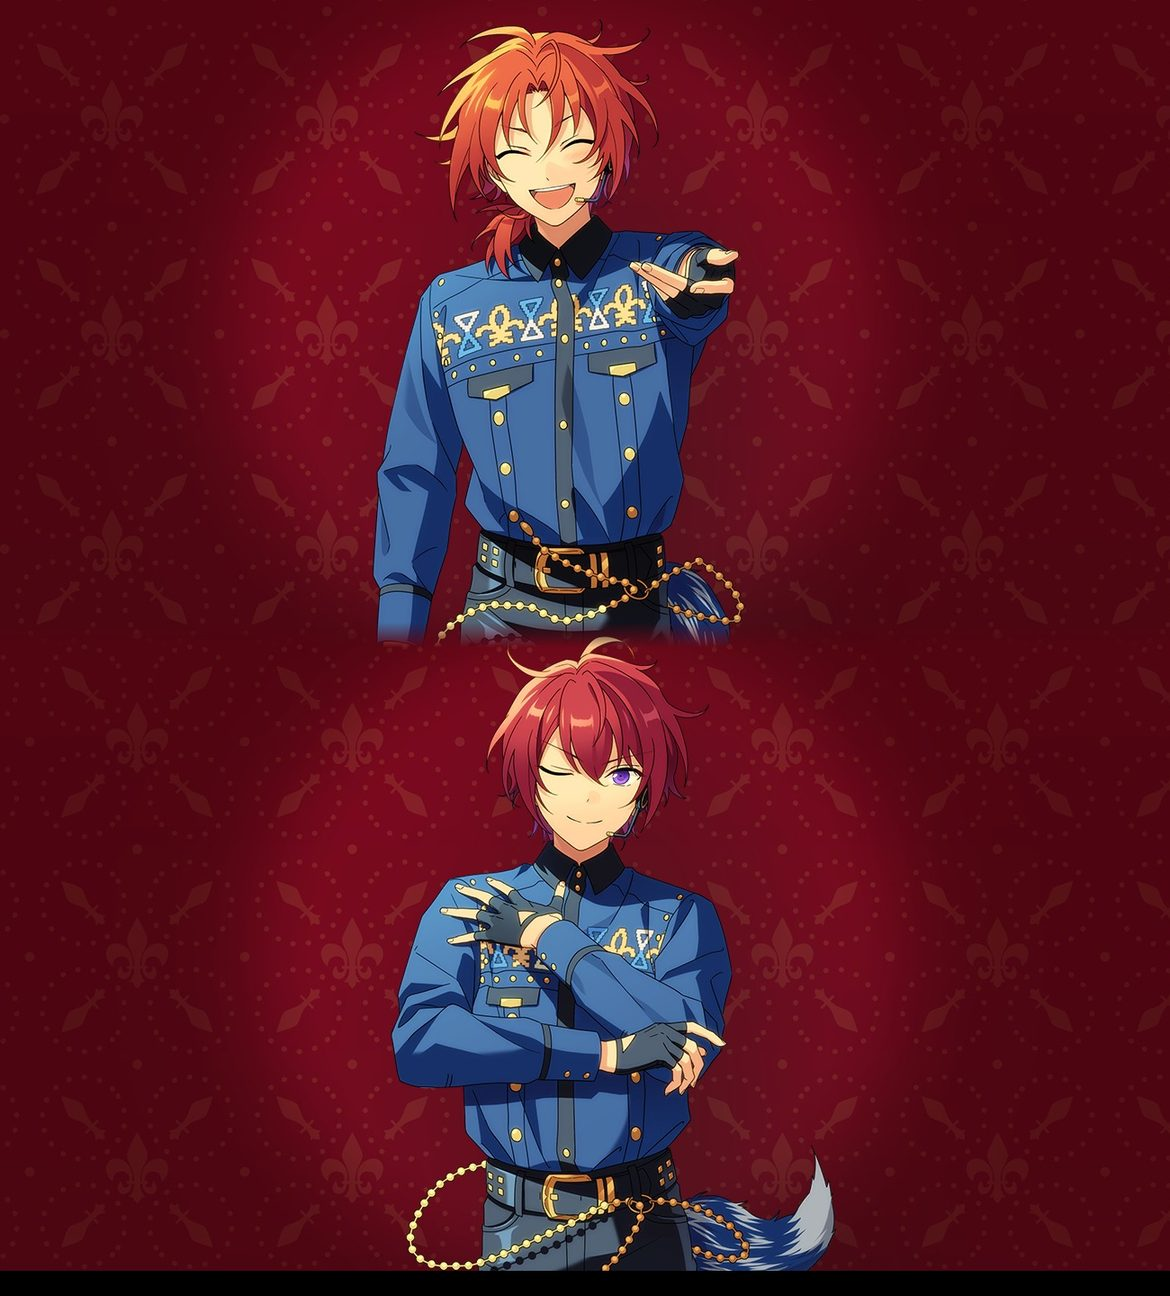
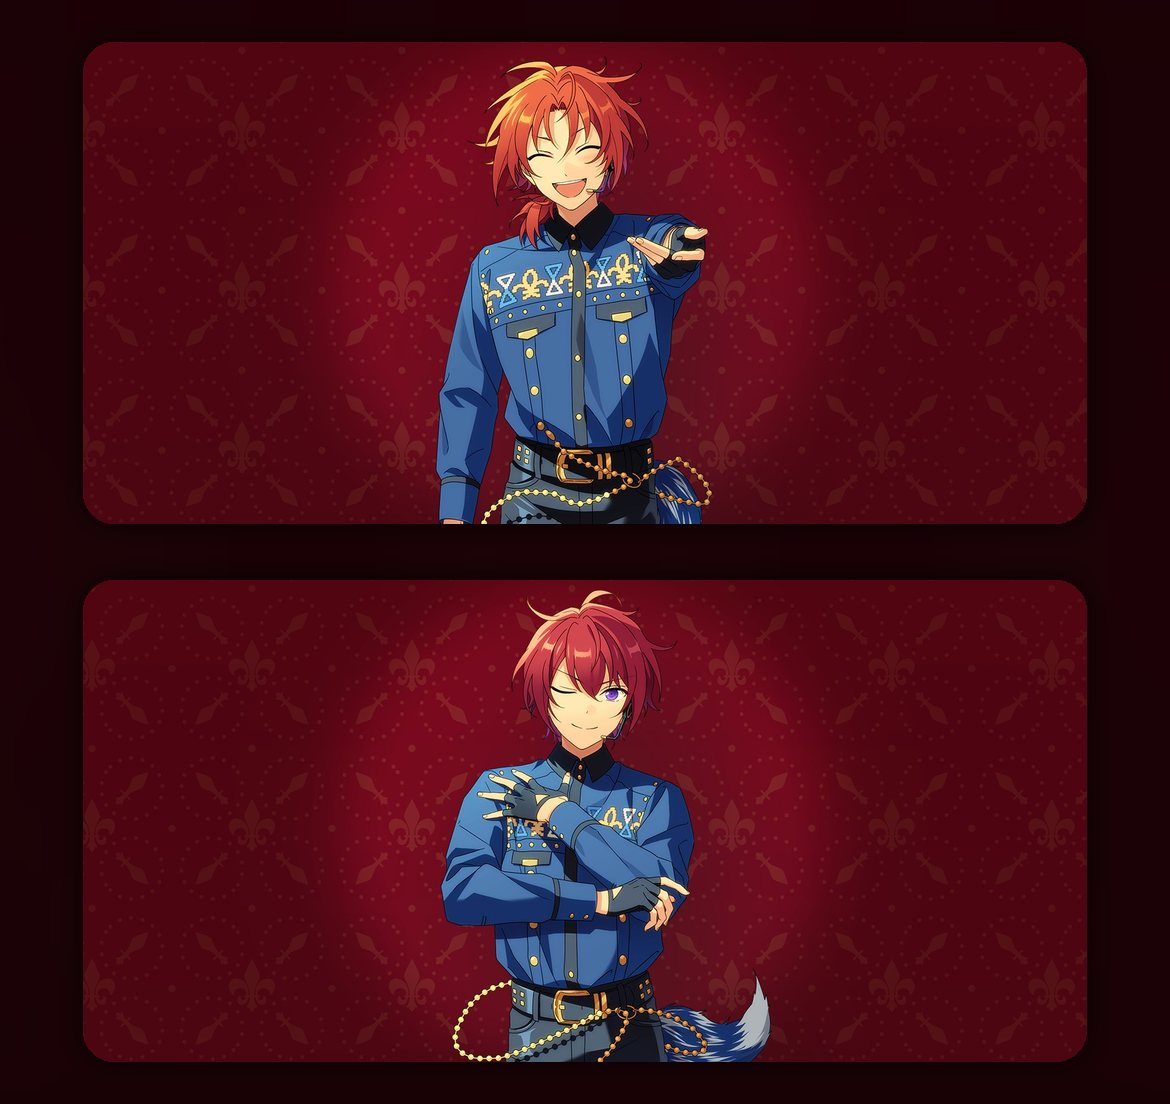
fix(hero): CP 皮肤手机版改成「两张卡片」构图 + hero 比例锁死
原来给手机生成的竖版图是「上=左立绘 / 下=右立绘」硬拼，但源图 3120x720
两位角色本来就是**齐腰裁断**的卡面，竖着拼只会露出被切的身体；更要命的是
手机 hero 框(42vh ≈ 1.06:1)和竖版图(0.9:1)比例对不上，object-fit:cover
把图上下裁掉 —— 只剩上面那位角色，下面那位还从底部渐隐处透出鬼影。

- scripts/build_cp_mobile.py：改成「模糊放大的原图当底 + 两张圆角卡片
  (各取一位角色、圆角+投影+间距)」，输出 1170x1104 (1.06:1)，
  两人都在、看起来是刻意的两张卡叠放，不再是硬拼一张连续图
- app/page.tsx：hero 在有手机版图时加 .hl-cpm 类
- app/globals.css：≤700px 时 .hl-hero.hl-cpm 按 1170/1104 锁死比例
  → 任何手机都不会再被裁；object-position 由 center 8% 改 center

diff --git a/app/page.tsx b/app/page.tsx
@@ -318,9 +318,10 @@ export default function HomePage() {
   const wallList = (th ? pool?.[th.key] : null) || ([] as Wall[]);
   const wallItem = wallList.length ? wallList[wall % wallList.length] : null;
   const wallUrl = wallItem?.src ?? null;
-  // 双人皮肤：手机(≤700px)换用 scripts/build_cp_mobile.py 生成的竖版拼图
-  // （上=左立绘 / 下=右立绘）。原图是 3120x720 的横条，竖屏里 cover 只会露出中间一道，
-  // 两个人都会被裁。竖版图比率 ~0.9，正好贴合手机 hero，两个人都在且够大。
+  // 双人皮肤：手机(≤700px)换用 scripts/build_cp_mobile.py 生成的「两张卡片」图。
+  // 原图是 3120x720 的横条，竖屏里 cover 只会露出中间一道，两个人都会被裁。
+  // 手机版 = 模糊底 + 两张圆角卡片(各一位角色)，尺寸 1170x1104 = 1.06:1，
+  // 正好是手机 hero(42vh) 的比例；CSS 里 .hl-hero.hl-cpm 也照这个比例锁死，不会被裁。
   const wallUrlM =
     wallUrl && th && th.chars.length > 1 ? wallUrl.replace(/\.jpg$/, '_m.jpg') : null;
   // 把当前皮肤广播给全局音乐悬浮件（app/music.tsx 的 MusicDock），
@@ -350,7 +351,7 @@ export default function HomePage() {
       {th && (
     <main className="hl-main" data-theme={th.key}>
       {/* 首屏：皮肤内随机壁纸；没壁纸时用贴纸卡占位 */}
-      <div className="hl-hero">
+      <div className={`hl-hero${wallUrlM ? ' hl-cpm' : ''}`}>
         {wallUrl ? (
           /* 桌面用原横图整张铺满；双人皮肤手机(≤700px)切到竖版拼图 */
           <div className="hl-bgframe">

diff --git a/app/globals.css b/app/globals.css
@@ -458,6 +458,14 @@ a.hl-tile:hover .hl-go { opacity: 1; transform: translateX(0); }
 /* 停留结束：启动屏淡出、已就绪的主题主体透出（SPLASH_OUT=0.7s） */
 .hl-splash.hl-out { opacity: 0; transition: opacity 0.7s ease; pointer-events: none; }
 
+/* 双人(CP)皮肤：手机换用 1170x1104 的预生成图。
+   hero 框必须照图片比例锁死，否则 object-fit:cover 会把竖版图上下裁掉
+   —— 只剩上面那位角色，下面那位还会从底部渐隐处透出鬼影。 */
+@media (max-width: 700px) {
+  .hl-hero.hl-cpm { height: auto; min-height: 0; aspect-ratio: 1170 / 1104; }
+  .hl-hero.hl-cpm .hl-bgframe img.hl-bg { object-position: center; }
+}
+
 @media (max-width: 560px) {
   .hl-hero { height: 42vh; min-height: 0; }
   .hl-chibi { --padb: 6px; right: 8px; }

diff --git a/scripts/build_cp_mobile.py b/scripts/build_cp_mobile.py
@@ -1,36 +1,40 @@
 #!/usr/bin/env python3
 # -*- coding: utf-8 -*-
 """
-双人（CP）壁纸 -> 手机竖版变体。
+双人（CP）壁纸 -> 手机版 hero 变体。
 
-背景：CP 壁纸是 3120x720 (= 两张 1560x720 立绘并排) 的横条。
-桌面 hero (min(50vh,400px)，宽约 1440) 比率 3.6~4.3，整张铺得下，两个人都看得见。
-手机 hero (42vh，宽约 390) 比率 ~1.08，cover 后只能露出 ~25% 宽，
-   就算把两张立绘各自对准一半（左右各 50%），每半也只露出 ~12% 宽 —— 等于
-   把两个人都放大 7~8 倍再硬拼在一起，接缝假、人被裁。
+背景：CP 壁纸是 3120x720 (= 两张 1560x720 立绘并排) 的横条，而且两位角色是
+   「齐腰裁断」的卡面。桌面 hero 宽、整张铺得下；手机 hero 是 42vh 的近方形框，
+   竖着硬拼两个半张 => 露出被切的身体 + 接缝 + 而且 hero 框比例和图片对不上时
+   object-fit:cover 会把竖版图上下裁掉（只剩上面那位，下面那位在渐隐处透出鬼影）。
 
-做法：给每张 CP 壁纸生成「上=左立绘 / 下=右立绘」的竖版拼图 (1170x1080，比率 1.083)，
-   正好塞进手机 hero 那个近正方形的框（cover 几乎零裁切），两个人都完整、够大。
-   接缝处做一个渐隐交叉淡入 (cross-fade)，免得出现一条硬线。
+做法（方案 C）：整张原图放大高斯模糊压暗当底，上面叠两张「独立卡片」
+   —— 各取一位角色（按人物水平中心取景）、圆角 + 投影 + 间距。
+   看起来是刻意的两张卡叠放，而不是一张被拼坏的连续图。
+
+输出比例刻意做成 ~1.06:1 —— 手机 hero 是 42vh，对绝大多数手机（W/H≈2.2）
+   ≈ 1.06:1，这样 hero 不用改 CSS 也不会被 cover 裁。
 
 输入：public/walls/{leosou,junhiyo}/*.jpg
 输出：同目录 <name>_m.jpg（page.tsx 用 <picture> 在 ≤700px 时切过去）
-用法：C:\\Users\\su289\\miniconda3\\python.exe scripts\\build_cp_mobile.py
+用法：python scripts/build_cp_mobile.py
 """
 import os
 from pathlib import Path
 
 import numpy as np
-from PIL import Image
+from PIL import Image, ImageDraw, ImageEnhance, ImageFilter
 
 ROOT = Path(__file__).resolve().parent.parent
 WALLS = ROOT / "public" / "walls"
 CP_KEYS = ("leosou", "junhiyo")
 
-OUT_W = 1170          # 输出宽（~390 手机宽的 3x，够 3x 屏）
-CROP_W = 1300         # 每半张的取景宽（比 1560 窄一点 => 人物居中且放大 ~20%）
-BAND = 28             # 接缝交叉淡入高度（够抹掉渐变底色的一点色差，又不会糊出重影）
-Q = 82
+W, H = 1170, 1104     # 目标尺寸，比例 1.06:1（≈ 手机 42vh hero，不裁）
+MARGIN = 42           # 卡片距画面上下边
+GAP = 56              # 两张卡之间的间距
+CROP_W = 1500         # 每半张的取景宽（1500 < 1560，人物居中且放大一点）
+RADIUS = 30           # 卡片圆角
+Q = 84
 
 
 def char_center(half: np.ndarray) -> int:
@@ -49,20 +53,54 @@ def char_center(half: np.ndarray) -> int:
     return int((seg[0] + seg[-1]) // 2)
 
 
-def stack(left: Image.Image, right: Image.Image) -> Image.Image:
-    """左立绘在上、右立绘在下，中缝按 BAND 高度交叉淡入。"""
-    w, h = left.size
-    canvas = Image.new("RGB", (w, h * 2), "#000000")
-    canvas.paste(left, (0, 0))
-    # 右图压在左图底部 BAND 行上，并用一张从 0->255 的竖直 alpha 蒙版淡入；
-    # 于是中缝是一段平滑交叉，而不是一条硬边。
-    mask = Image.new("L", (w, h), 255)
-    mpx = mask.load()
-    for y in range(BAND):
-        v = round(255 * (y + 1) / BAND)
-        for x in range(w):
-            mpx[x, y] = v
-    canvas.paste(right, (0, h - BAND), mask)
+def face_crop(pane: Image.Image, crop_w: int) -> Image.Image:
+    """按人物水平中心裁一条 crop_w 宽；不居中的话人物在卡里会偏一侧。"""
+    c = char_center(np.asarray(pane, dtype=np.int16))
+    a = min(max(c - crop_w // 2, 0), pane.size[0] - crop_w)
+    return pane.crop((a, 0, a + crop_w, pane.size[1]))
+
+
+def backdrop(im: Image.Image) -> Image.Image:
+    """整张原图放大铺满 + 高斯模糊 + 压暗，当卡片后面的底。"""
+    s = max(W / im.size[0], H / im.size[1])
+    r = im.resize((int(im.size[0] * s + 1), int(im.size[1] * s + 1)), Image.LANCZOS)
+    x = (r.size[0] - W) // 2
+    y = (r.size[1] - H) // 2
+    r = r.crop((x, y, x + W, y + H)).filter(ImageFilter.GaussianBlur(46))
+    return ImageEnhance.Brightness(r).enhance(0.34)
+
+
+def build(im: Image.Image) -> Image.Image:
+    w, h = im.size
+    if w / h < 3:
+        # 不是「两张立绘并排」的宽条（拼贴卡之类，如 junhiyo_buddy 自带侧边条+黑边）：
+        # 横竖怎么切都是密拼贴感 -> 只缩一张兜底，保证 <picture> 那个源永不 404。
+        return im.resize((W, H), Image.LANCZOS)
+
+    half = w // 2
+    ch = (H - 2 * MARGIN - GAP) // 2           # 单张卡的高
+    cw = round(ch * CROP_W / h)                # 单张卡的宽（保持取景窗比例，不额外裁）
+    canvas = backdrop(im)
+
+    mask = Image.new("L", (cw, ch), 0)
+    ImageDraw.Draw(mask).rounded_rectangle([0, 0, cw - 1, ch - 1], radius=RADIUS, fill=255)
+
+    y0 = (H - (ch * 2 + GAP)) // 2
+    for i, x0 in enumerate((0, half)):
+        pane = im.crop((x0, 0, x0 + half, h))
+        card = face_crop(pane, CROP_W).resize((cw, ch), Image.LANCZOS)
+        yy = y0 + i * (ch + GAP)
+        # 投影：比卡片大的圆角黑块，模糊后垫在下面
+        sh = Image.new("RGBA", (cw + 44, ch + 44), (0, 0, 0, 0))
+        ImageDraw.Draw(sh).rounded_rectangle(
+            [22, 22, cw + 22, ch + 22], radius=RADIUS, fill=(0, 0, 0, 165)
+        )
+        canvas.paste(
+            Image.new("RGB", sh.size, (0, 0, 0)),
+            ((W - cw) // 2 - 22, yy - 22),
+            sh.filter(ImageFilter.GaussianBlur(13)),
+        )
+        canvas.paste(card, ((W - cw) // 2, yy), mask)
     return canvas
 
 
@@ -75,24 +113,7 @@ def main():
         for src in sorted(d.glob("*.jpg")):
             if src.stem.endswith("_m"):
                 continue
-            im = Image.open(src).convert("RGB")
-            w, h = im.size
-            if w / h < 3:
-                # 不是「两张立绘并排」的宽条（万一以后往池子里塞了普通图）：
-                # 不拼，只缩一张竖版兜底，保证 <picture> 那个源永远不 404。
-                k = OUT_W / w
-                out = im.resize((OUT_W, round(h * k)), Image.LANCZOS)
-            else:
-                half = w // 2
-                panes = []
-                for x0 in (0, half):
-                    p = im.crop((x0, 0, x0 + half, h))
-                    c = char_center(np.asarray(p, dtype=np.int16))
-                    a = min(max(c - CROP_W // 2, 0), half - CROP_W)   # 取景窗居中于人物
-                    panes.append(p.crop((a, 0, a + CROP_W, h)))
-                out = stack(*panes)
-            k = OUT_W / out.width
-            out = out.resize((OUT_W, round(out.height * k)), Image.LANCZOS)
+            out = build(Image.open(src).convert("RGB"))
             dst = src.with_name(src.stem + "_m.jpg")
             out.save(dst, "JPEG", quality=Q, optimize=True)
             total += 1
